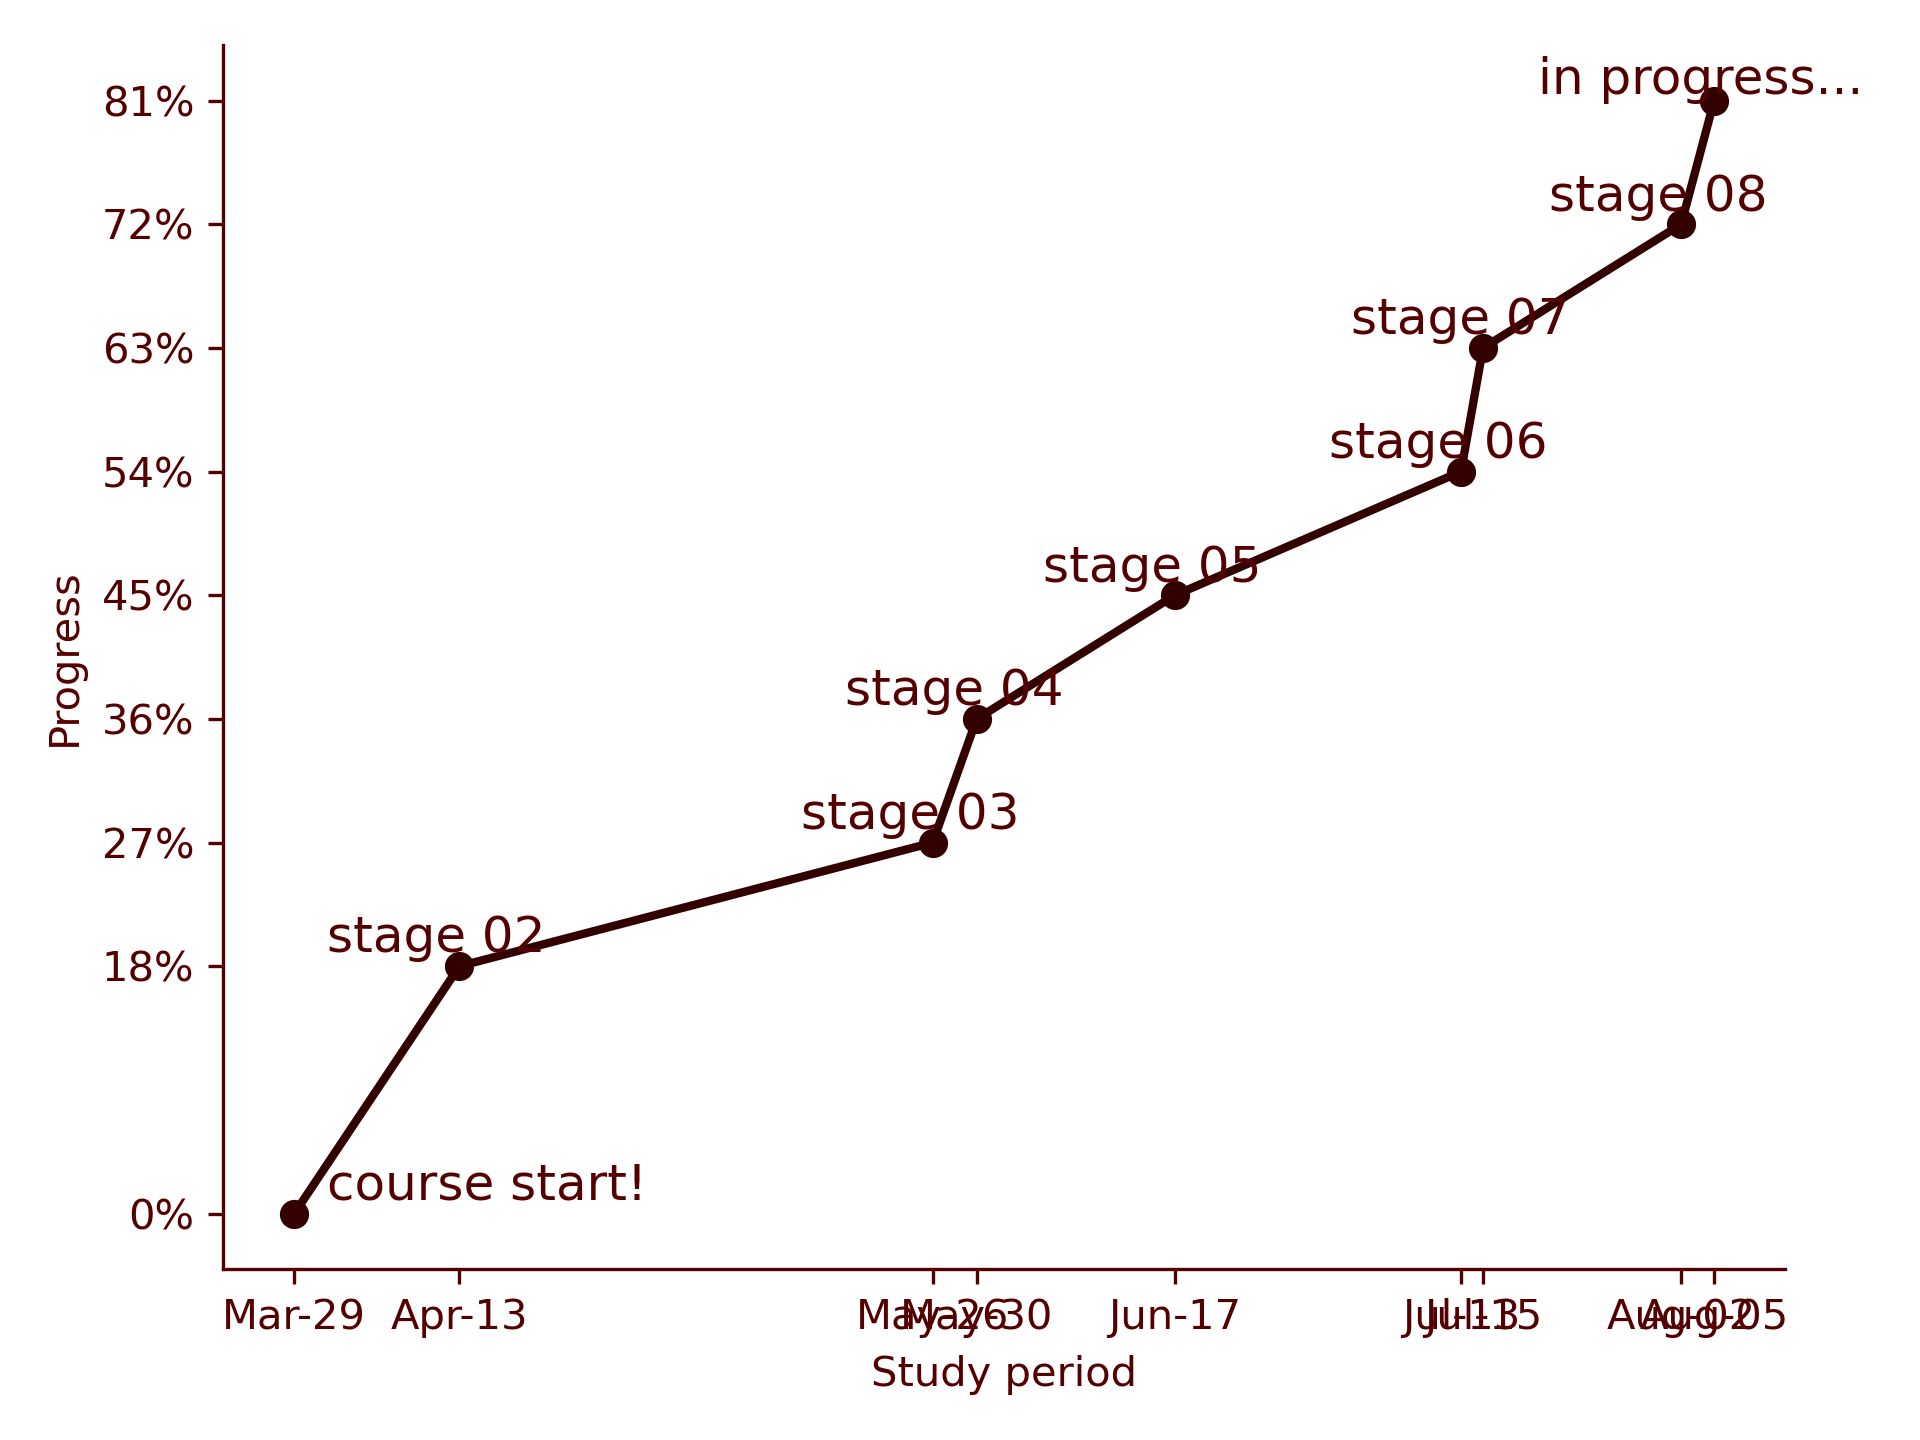
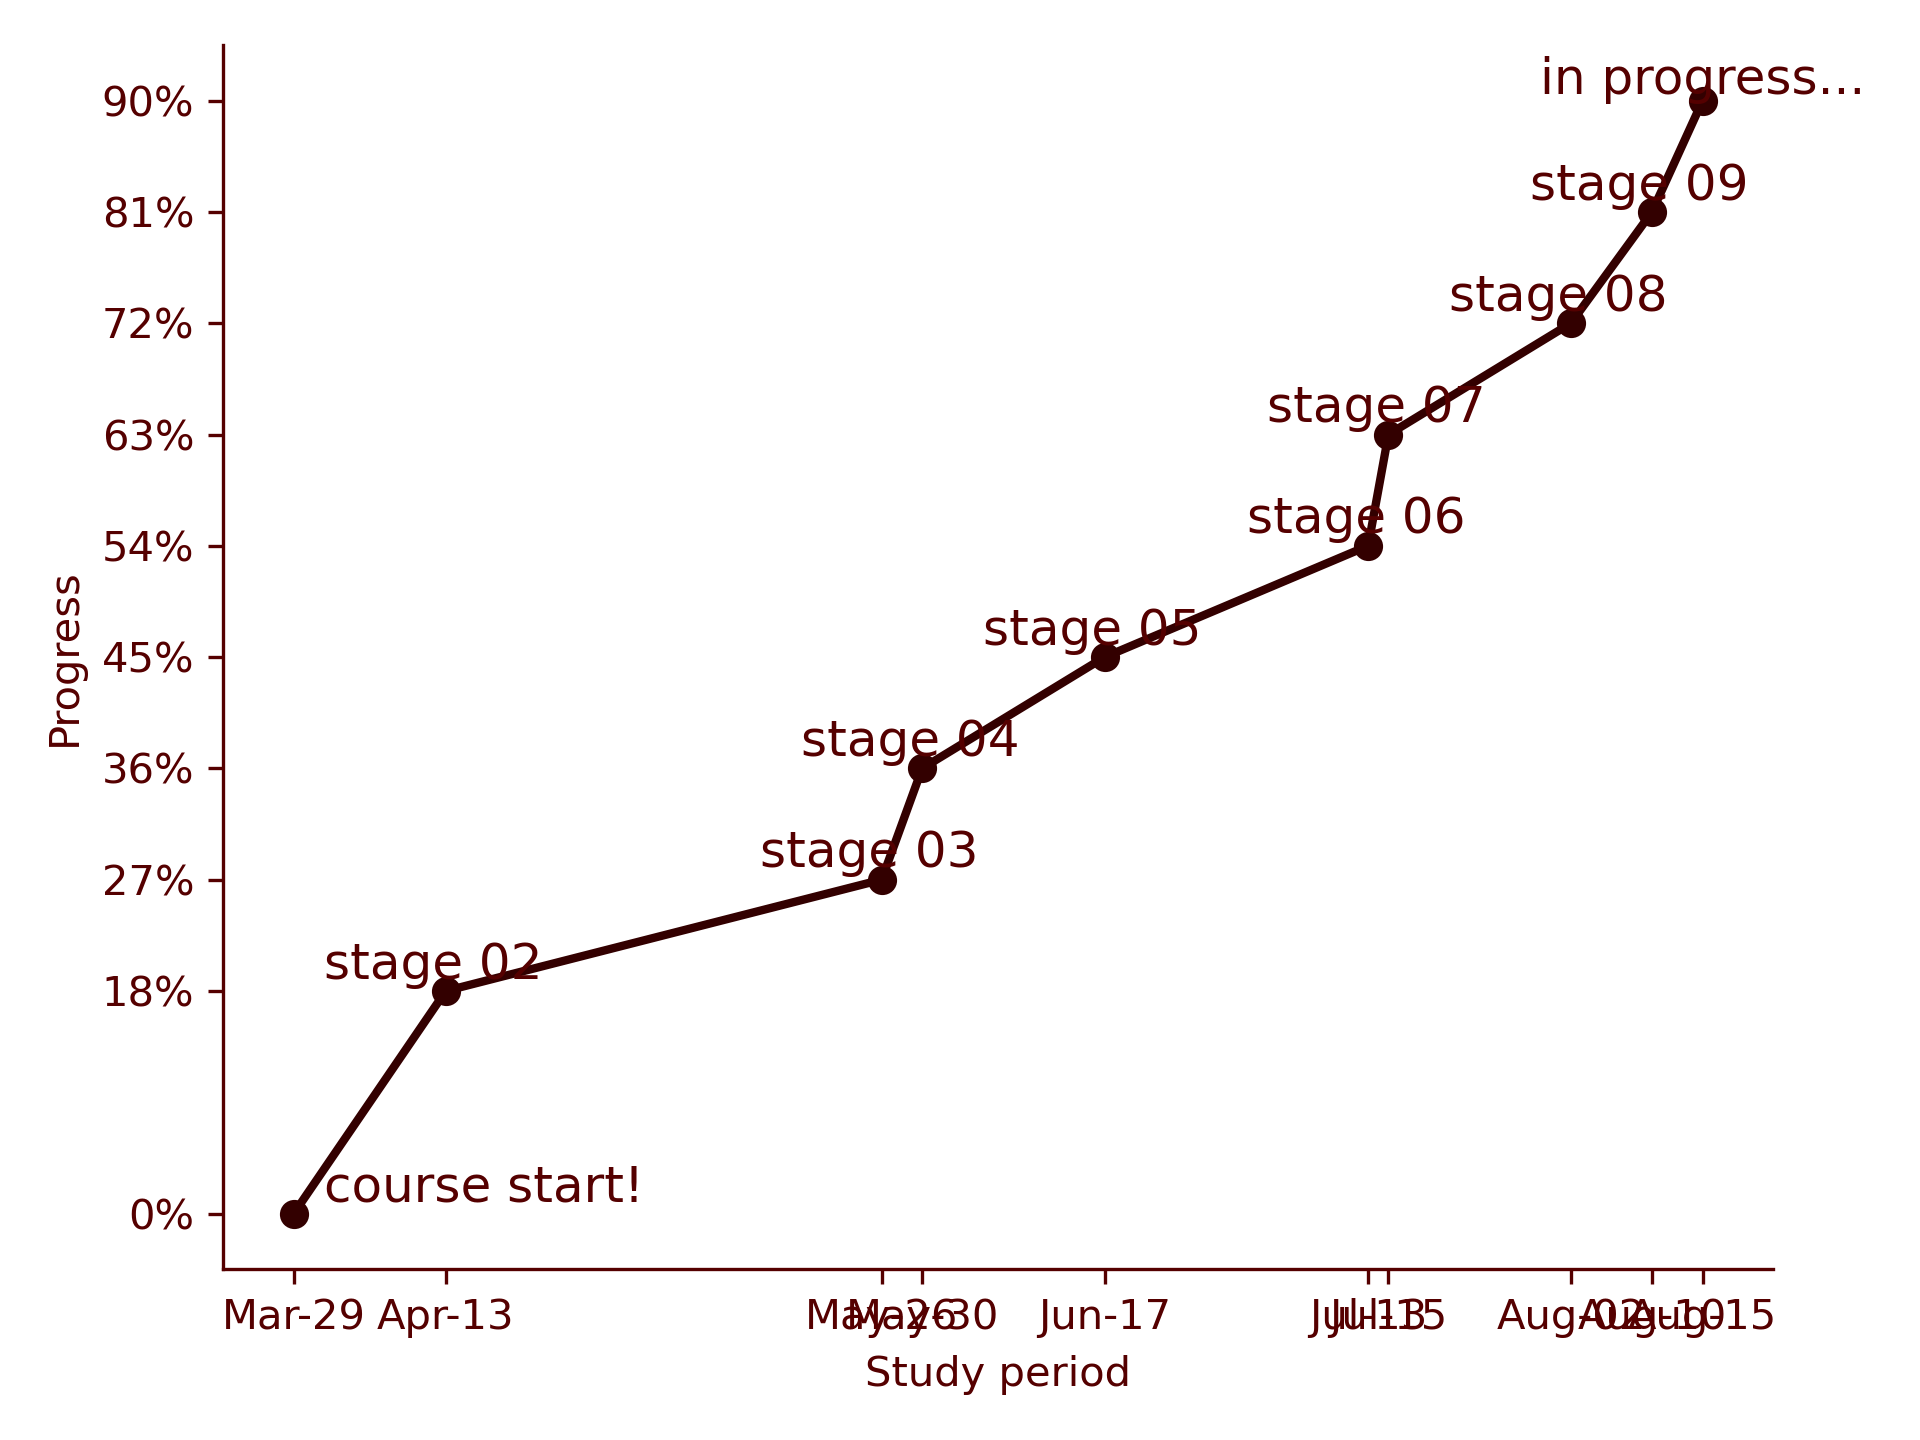
Stage 10 started

diff --git a/index.html b/index.html
@@ -49,8 +49,8 @@
             <img src="https://img.shields.io/github/languages/count/victorsgb/explorer?color=yellow&style=plastic">
             <img src="https://img.shields.io/github/languages/top/victorsgb/explorer?style=plastic">
         </p>
-        <h3>Status: In Progress (73%)</h3>
-        <progress value="73" max="100"></progress>
+        <h3>Status: In Progress (81%)</h3>
+        <progress value="81" max="100"></progress>
     </header>
 
     <main>
@@ -85,12 +85,21 @@
                 <li>
                     <div class="title">
                         <object data="images/explorer-logo.svg" width="20" height="20"> </object>
+                        <h3>Stage 09 | Challenge 13</h3>
+                    </div>
+                    <p>Building a Frontend web with React.js</p>
+                    <a class="project-code available" href="https://github.com/victorsgb/explorer/tree/main/rocketmovies_frontend/">Code</a>
+                    <a class="project-deploy unavailable" href="#">Deploy</a>
+                </li>
+                <li>
+                    <div class="title">
+                        <object data="images/explorer-logo.svg" width="20" height="20"> </object>
                         <h3>Stage 08 | Challenge 12</h3>
                     </div>
-                    <p>Building an API</p>
-                    <a class="project-code available" href="https://github.com/victorsgb/explorer/tree/main/movies_api/">Code</a>
-                    <a class="project-deploy unavailable" href="https://victorsgb.github.io/explorer/movies_api/">Deploy</a>
-                </li>   
+                    <p>Building an API with Node.js</p>
+                    <a class="project-code available" href="https://github.com/victorsgb/explorer/tree/main/rocketmovies_backend/">Code</a>
+                    <a class="project-deploy unavailable" href="#">Deploy</a>
+                </li>
                 <li>
                     <div class="title">
                         <object data="images/explorer-logo.svg" width="20" height="20"> </object>
@@ -161,7 +170,7 @@
                 <path fill="#f00" fill-rule="nonzero" d="M307.56 301.51c.51 10.05 3.9 17.2 10.19 21.35 15.76 10.52 31.28-1.96 42.64-12.05L502.5 183.04c12.67-11.46 12.67-27.76 0-39.22L363.62 18.96c-11.9-10.69-28.78-26.39-45.87-14.99-6.29 4.17-9.68 11.33-10.19 21.38v76.31H6.33c-3.48 0-6.33 2.85-6.33 6.33v110.88c0 3.47 2.86 6.33 6.33 6.33h301.23v76.31z"/>
             </svg>
             <h2>What's coming next?</h2>
-            <p><strong>Stage 09: Frontend</strong> In this module I will learn ReactJS and build the frontend of an API built on the previous module. I will learn how to use Vite, how to properly structure folders, how to style the project using styled-components, how to navigate using React Router, and more.</p>
+            <p><strong>Stage 10: API RESTful</strong> In this module I will learn how to integrate the backend and frontend built on the last two modules of this course, as well as some other important topics such as authentication and images upload.</p>
             <div id="chart">
                 <img src="images/chart.png" alt="Overview of my progress in the course">
             </div>
@@ -172,6 +181,16 @@
             </svg>
             <h2>Stacks learned and practiced so far</h2>
             <div class="stack-badges">
+                <a href="https://developer.mozilla.org/pt-BR/docs/Learn/Tools_and_testing/Client-side_JavaScript_frameworks/React_getting_started">
+                    <svg role="img" viewBox="0 0 24 24" xmlns="http://www.w3.org/2000/svg">
+                        <title>React</title><path d="M14.23 12.004a2.236 2.236 0 0 1-2.235 2.236 2.236 2.236 0 0 1-2.236-2.236 2.236 2.236 0 0 1 2.235-2.236 2.236 2.236 0 0 1 2.236 2.236zm2.648-10.69c-1.346 0-3.107.96-4.888 2.622-1.78-1.653-3.542-2.602-4.887-2.602-.41 0-.783.093-1.106.278-1.375.793-1.683 3.264-.973 6.365C1.98 8.917 0 10.42 0 12.004c0 1.59 1.99 3.097 5.043 4.03-.704 3.113-.39 5.588.988 6.38.32.187.69.275 1.102.275 1.345 0 3.107-.96 4.888-2.624 1.78 1.654 3.542 2.603 4.887 2.603.41 0 .783-.09 1.106-.275 1.374-.792 1.683-3.263.973-6.365C22.02 15.096 24 13.59 24 12.004c0-1.59-1.99-3.097-5.043-4.032.704-3.11.39-5.587-.988-6.38-.318-.184-.688-.277-1.092-.278zm-.005 1.09v.006c.225 0 .406.044.558.127.666.382.955 1.835.73 3.704-.054.46-.142.945-.25 1.44-.96-.236-2.006-.417-3.107-.534-.66-.905-1.345-1.727-2.035-2.447 1.592-1.48 3.087-2.292 4.105-2.295zm-9.77.02c1.012 0 2.514.808 4.11 2.28-.686.72-1.37 1.537-2.02 2.442-1.107.117-2.154.298-3.113.538-.112-.49-.195-.964-.254-1.42-.23-1.868.054-3.32.714-3.707.19-.09.4-.127.563-.132zm4.882 3.05c.455.468.91.992 1.36 1.564-.44-.02-.89-.034-1.345-.034-.46 0-.915.01-1.36.034.44-.572.895-1.096 1.345-1.565zM12 8.1c.74 0 1.477.034 2.202.093.406.582.802 1.203 1.183 1.86.372.64.71 1.29 1.018 1.946-.308.655-.646 1.31-1.013 1.95-.38.66-.773 1.288-1.18 1.87-.728.063-1.466.098-2.21.098-.74 0-1.477-.035-2.202-.093-.406-.582-.802-1.204-1.183-1.86-.372-.64-.71-1.29-1.018-1.946.303-.657.646-1.313 1.013-1.954.38-.66.773-1.286 1.18-1.868.728-.064 1.466-.098 2.21-.098zm-3.635.254c-.24.377-.48.763-.704 1.16-.225.39-.435.782-.635 1.174-.265-.656-.49-1.31-.676-1.947.64-.15 1.315-.283 2.015-.386zm7.26 0c.695.103 1.365.23 2.006.387-.18.632-.405 1.282-.66 1.933-.2-.39-.41-.783-.64-1.174-.225-.392-.465-.774-.705-1.146zm3.063.675c.484.15.944.317 1.375.498 1.732.74 2.852 1.708 2.852 2.476-.005.768-1.125 1.74-2.857 2.475-.42.18-.88.342-1.355.493-.28-.958-.646-1.956-1.1-2.98.45-1.017.81-2.01 1.085-2.964zm-13.395.004c.278.96.645 1.957 1.1 2.98-.45 1.017-.812 2.01-1.086 2.964-.484-.15-.944-.318-1.37-.5-1.732-.737-2.852-1.706-2.852-2.474 0-.768 1.12-1.742 2.852-2.476.42-.18.88-.342 1.356-.494zm11.678 4.28c.265.657.49 1.312.676 1.948-.64.157-1.316.29-2.016.39.24-.375.48-.762.705-1.158.225-.39.435-.788.636-1.18zm-9.945.02c.2.392.41.783.64 1.175.23.39.465.772.705 1.143-.695-.102-1.365-.23-2.006-.386.18-.63.406-1.282.66-1.933zM17.92 16.32c.112.493.2.968.254 1.423.23 1.868-.054 3.32-.714 3.708-.147.09-.338.128-.563.128-1.012 0-2.514-.807-4.11-2.28.686-.72 1.37-1.536 2.02-2.44 1.107-.118 2.154-.3 3.113-.54zm-11.83.01c.96.234 2.006.415 3.107.532.66.905 1.345 1.727 2.035 2.446-1.595 1.483-3.092 2.295-4.11 2.295-.22-.005-.406-.05-.553-.132-.666-.38-.955-1.834-.73-3.703.054-.46.142-.944.25-1.438zm4.56.64c.44.02.89.034 1.345.034.46 0 .915-.01 1.36-.034-.44.572-.895 1.095-1.345 1.565-.455-.47-.91-.993-1.36-1.565z"/>
+                    </svg>
+                </a>
+                <a href="https://developer.mozilla.org/pt-BR/docs/Learn/Server-side/Express_Nodejs/Introduction">
+                    <svg role="img" viewBox="0 0 24 24" xmlns="http://www.w3.org/2000/svg">
+                        <title>Node.js</title><path fill="#f00" d="M11.998,24c-0.321,0-0.641-0.084-0.922-0.247l-2.936-1.737c-0.438-0.245-0.224-0.332-0.08-0.383 c0.585-0.203,0.703-0.25,1.328-0.604c0.065-0.037,0.151-0.023,0.218,0.017l2.256,1.339c0.082,0.045,0.197,0.045,0.272,0l8.795-5.076 c0.082-0.047,0.134-0.141,0.134-0.238V6.921c0-0.099-0.053-0.192-0.137-0.242l-8.791-5.072c-0.081-0.047-0.189-0.047-0.271,0 L3.075,6.68C2.99,6.729,2.936,6.825,2.936,6.921v10.15c0,0.097,0.054,0.189,0.139,0.235l2.409,1.392 c1.307,0.654,2.108-0.116,2.108-0.89V7.787c0-0.142,0.114-0.253,0.256-0.253h1.115c0.139,0,0.255,0.112,0.255,0.253v10.021 c0,1.745-0.95,2.745-2.604,2.745c-0.508,0-0.909,0-2.026-0.551L2.28,18.675c-0.57-0.329-0.922-0.945-0.922-1.604V6.921 c0-0.659,0.353-1.275,0.922-1.603l8.795-5.082c0.557-0.315,1.296-0.315,1.848,0l8.794,5.082c0.57,0.329,0.924,0.944,0.924,1.603 v10.15c0,0.659-0.354,1.273-0.924,1.604l-8.794,5.078C12.643,23.916,12.324,24,11.998,24z M19.099,13.993 c0-1.9-1.284-2.406-3.987-2.763c-2.731-0.361-3.009-0.548-3.009-1.187c0-0.528,0.235-1.233,2.258-1.233 c1.807,0,2.473,0.389,2.747,1.607c0.024,0.115,0.129,0.199,0.247,0.199h1.141c0.071,0,0.138-0.031,0.186-0.081 c0.048-0.054,0.074-0.123,0.067-0.196c-0.177-2.098-1.571-3.076-4.388-3.076c-2.508,0-4.004,1.058-4.004,2.833 c0,1.925,1.488,2.457,3.895,2.695c2.88,0.282,3.103,0.703,3.103,1.269c0,0.983-0.789,1.402-2.642,1.402 c-2.327,0-2.839-0.584-3.011-1.742c-0.02-0.124-0.126-0.215-0.253-0.215h-1.137c-0.141,0-0.254,0.112-0.254,0.253 c0,1.482,0.806,3.248,4.655,3.248C17.501,17.007,19.099,15.91,19.099,13.993z"/>
+                    </svg>
+                </a>
                 <a href="https://developer.mozilla.org/pt-BR/docs/Web/JavaScript">
                     <svg role="img" viewBox="0 0 24 24" xmlns="http://www.w3.org/2000/svg">
                         <title>JavaScript</title><path fill="#f00" d="M0 0h24v24H0V0zm22.034 18.276c-.175-1.095-.888-2.015-3.003-2.873-.736-.345-1.554-.585-1.797-1.14-.091-.33-.105-.51-.046-.705.15-.646.915-.84 1.515-.66.39.12.75.42.976.9 1.034-.676 1.034-.676 1.755-1.125-.27-.42-.404-.601-.586-.78-.63-.705-1.469-1.065-2.834-1.034l-.705.089c-.676.165-1.32.525-1.71 1.005-1.14 1.291-.811 3.541.569 4.471 1.365 1.02 3.361 1.244 3.616 2.205.24 1.17-.87 1.545-1.966 1.41-.811-.18-1.26-.586-1.755-1.336l-1.83 1.051c.21.48.45.689.81 1.109 1.74 1.756 6.09 1.666 6.871-1.004.029-.09.24-.705.074-1.65l.046.067zm-8.983-7.245h-2.248c0 1.938-.009 3.864-.009 5.805 0 1.232.063 2.363-.138 2.711-.33.689-1.18.601-1.566.48-.396-.196-.597-.466-.83-.855-.063-.105-.11-.196-.127-.196l-1.825 1.125c.305.63.75 1.172 1.324 1.517.855.51 2.004.675 3.207.405.783-.226 1.458-.691 1.811-1.411.51-.93.402-2.07.397-3.346.012-2.054 0-4.109 0-6.179l.004-.056z"/>
@@ -185,11 +204,6 @@
                 <a href="https://developer.mozilla.org/pt-BR/docs/Web/HTML">
                     <svg role="img" viewBox="0 0 24 24" xmlns="http://www.w3.org/2000/svg">
                         <title>HTML5</title><path fill="#f00" d="M1.5 0h21l-1.91 21.563L11.977 24l-8.564-2.438L1.5 0zm7.031 9.75l-.232-2.718 10.059.003.23-2.622L5.412 4.41l.698 8.01h9.126l-.326 3.426-2.91.804-2.955-.81-.188-2.11H6.248l.33 4.171L12 19.351l5.379-1.443.744-8.157H8.531z"/>
-                    </svg>
-                </a>
-                <a href="https://developer.mozilla.org/pt-BR/docs/Learn/Server-side/Express_Nodejs/Introduction">
-                    <svg role="img" viewBox="0 0 24 24" xmlns="http://www.w3.org/2000/svg">
-                        <title>Node.js</title><path fill="#f00" d="M11.998,24c-0.321,0-0.641-0.084-0.922-0.247l-2.936-1.737c-0.438-0.245-0.224-0.332-0.08-0.383 c0.585-0.203,0.703-0.25,1.328-0.604c0.065-0.037,0.151-0.023,0.218,0.017l2.256,1.339c0.082,0.045,0.197,0.045,0.272,0l8.795-5.076 c0.082-0.047,0.134-0.141,0.134-0.238V6.921c0-0.099-0.053-0.192-0.137-0.242l-8.791-5.072c-0.081-0.047-0.189-0.047-0.271,0 L3.075,6.68C2.99,6.729,2.936,6.825,2.936,6.921v10.15c0,0.097,0.054,0.189,0.139,0.235l2.409,1.392 c1.307,0.654,2.108-0.116,2.108-0.89V7.787c0-0.142,0.114-0.253,0.256-0.253h1.115c0.139,0,0.255,0.112,0.255,0.253v10.021 c0,1.745-0.95,2.745-2.604,2.745c-0.508,0-0.909,0-2.026-0.551L2.28,18.675c-0.57-0.329-0.922-0.945-0.922-1.604V6.921 c0-0.659,0.353-1.275,0.922-1.603l8.795-5.082c0.557-0.315,1.296-0.315,1.848,0l8.794,5.082c0.57,0.329,0.924,0.944,0.924,1.603 v10.15c0,0.659-0.354,1.273-0.924,1.604l-8.794,5.078C12.643,23.916,12.324,24,11.998,24z M19.099,13.993 c0-1.9-1.284-2.406-3.987-2.763c-2.731-0.361-3.009-0.548-3.009-1.187c0-0.528,0.235-1.233,2.258-1.233 c1.807,0,2.473,0.389,2.747,1.607c0.024,0.115,0.129,0.199,0.247,0.199h1.141c0.071,0,0.138-0.031,0.186-0.081 c0.048-0.054,0.074-0.123,0.067-0.196c-0.177-2.098-1.571-3.076-4.388-3.076c-2.508,0-4.004,1.058-4.004,2.833 c0,1.925,1.488,2.457,3.895,2.695c2.88,0.282,3.103,0.703,3.103,1.269c0,0.983-0.789,1.402-2.642,1.402 c-2.327,0-2.839-0.584-3.011-1.742c-0.02-0.124-0.126-0.215-0.253-0.215h-1.137c-0.141,0-0.254,0.112-0.254,0.253 c0,1.482,0.806,3.248,4.655,3.248C17.501,17.007,19.099,15.91,19.099,13.993z"/>
                     </svg>
                 </a>
                 <a href="https://developer.mozilla.org/pt-BR/docs/Learn/Server-side/Express_Nodejs/Introduction">

diff --git a/style.css b/style.css
@@ -461,10 +461,14 @@ main #stacks {
 main #stacks .stack-badges {
     grid-area: section-content;
 
-    display: flex;
-    gap: 2.0rem;
+    display: grid;
+    grid-template-columns: 1fr 1fr 1fr;
+    gap: 1.6rem;
     align-items: center;
-    justify-content: center;
+}
+
+.stack-badges a {
+    justify-self: center;
 }
 
 main #contact {

diff --git a/chart.py b/chart.py
@@ -19,10 +19,11 @@ finishing_dates = [
     date(2022, 7, 13), # When I finished Stage 06
     date(2022, 7, 15),  # When I finished Stage 07
     date(2022, 8, 2),  # When I finished Stage 08
-    date(2022, 8, 5),  # Expected to finish Stage 09
+    date(2022, 8, 10),  # When I finished Stage 09
+    date(2022, 8, 15),  # Expected to finish Stage 10
 ]
 
-accumulated_progress = [0, .18, .27, .36, .45, .54, .63, .72, .81]
+accumulated_progress = [0, .18, .27, .36, .45, .54, .63, .72, .81, .90]
 
 fig, ax = plt.subplots(1, 1, dpi=300)
 
@@ -91,7 +92,11 @@ ax.text(
     fontdict=text_font
 )
 ax.text(
-    mdates.date2num(finishing_dates[8]) - 16, accumulated_progress[8] + 0.005, 'in progress...',
+    mdates.date2num(finishing_dates[8]) - 12, accumulated_progress[8] + 0.01, 'stage 09',
+    fontdict=text_font
+)
+ax.text(
+    mdates.date2num(finishing_dates[9]) - 16, accumulated_progress[9] + 0.005, 'in progress...',
     fontdict=text_font
 )
 

diff --git a/README.md b/README.md
@@ -27,7 +27,8 @@ This repository presents my solutions to the technical challenges I faced while 
 The repository you see is primarily intended to record my development into a full stack web developer!
 
 ### 📌 Important projects
-- Stage 08 | Challenge 12: [Building an API](https://github.com/victorsgb/explorer/tree/main/movies_api/)
+- Stage 09 | Challenge 13: [Building a Frontend web with React.js](https://github.com/victorsgb/explorer/tree/main/rocketmovies_frontend/)
+- Stage 08 | Challenge 12: [Building an API with Node.js](https://github.com/victorsgb/explorer/tree/main/rocketmovies_backend/)
 - Stage 06 | Challenge 11: [Consuming GitHub's API](https://github.com/victorsgb/explorer/tree/main/gitfav/) 🔗 **[see it online](https://victorsgb.github.io/explorer/gitfav/)**
 - Stage 06 | Project 07: [Introduction to SPA](https://github.com/victorsgb/explorer/tree/main/project_07/) 🔗 **[see it online](https://explorer-c1e2q7lrh-victorsgb.vercel.app/)**
 - Stage 05 | Challenge 10: [Focus Timer with HTML, CSS and JavaScript](https://github.com/victorsgb/explorer/tree/main/focus_timer/) 🔗 **[see it online](https://victorsgb.github.io/explorer/focus_timer/)**
@@ -38,10 +39,12 @@ The repository you see is primarily intended to record my development into a ful
 - Stage 03 | Project 03: [Custom form built using HTML and CSS](https://github.com/victorsgb/explorer/tree/main/project_03/) 🔗 **[see it online](https://victorsgb.github.io/explorer/project_03/)**
 
 ### 📌 Stacks and Tools practised
+
+<img src="https://simpleicons.org/icons/nodedotjs.svg" alt="Nodejs Badge" height="25"/>
+<img src="https://simpleicons.org/icons/react.svg" alt="Reactjs Badge" height="25"/>
 <img src="https://simpleicons.org/icons/javascript.svg" alt="JavaScript Badge" height="25">&nbsp;
 <img src="https://simpleicons.org/icons/css3.svg" alt="css3 Badge" height="25">&nbsp;
 <img src="https://simpleicons.org/icons/html5.svg" alt="html5 Badge" height="25">&nbsp;
-<img src="https://simpleicons.org/icons/nodedotjs.svg" alt="Nodejs Badge" height="25"/>
 <img src="https://simpleicons.org/icons/insomnia.svg" alt="Insomnia Badge" height="25"/>
 <img src="https://simpleicons.org/icons/sqlite.svg" alt="SQLite Badge" height="25"/>
 <img src="https://simpleicons.org/icons/express.svg" alt="Express Badge" height="25"/>

diff --git a/rocketmovies_frontend/README.md b/rocketmovies_frontend/README.md
@@ -1,0 +1,41 @@
+# 🚀 Rocketseat's Explorer Coursework
+
+### Stage 09 | Challenge 13: Building a Frontend using React
+
+---
+
+📅 **Aug 10th, 2022**
+
+⏳ **Status:** Finished ✔
+
+👨💻 **Task:** To build my first frontend web using React, with the active recall technique to exercise what I have been taught about the subject. I had to build it according to [this Figma layout](https://www.figma.com/file/UObYagRzmvi5PY4HhmzEHM/RocketMovies/duplicate).
+
+> This project was an opportunity to reinforce my recent knowledge of React 
+>
+> Vitejs was used to deploy the React project
+>
+> Depedencies in production:
+>
+>>    "react": "^18.2.0",
+>>    "react-dom": "^18.2.0",
+>>    "react-icons": "^4.4.0",
+>>    "react-router-dom": "^6.3.0",
+>>    "styled-components": "^5.3.5"
+>
+> Depedencies in development:
+>
+>>    "@types/react": "^18.0.15",
+>>    "@types/react-dom": "^18.0.6",
+>>    "@vitejs/plugin-react": "^2.0.0",
+>>    "vite": "^3.0.0"
+
+**How to run this API**
+> Start by cloning the repository into your machine. Then execute:
+>> npm install
+> 
+> which will install npm and the depedencies of this project. After that, execute:
+>> npm run dev
+> 
+> which will initialize the react project on your local machine.
+
+🌱 **Stacks and Tools:** JavaScript | React | Styled-components
